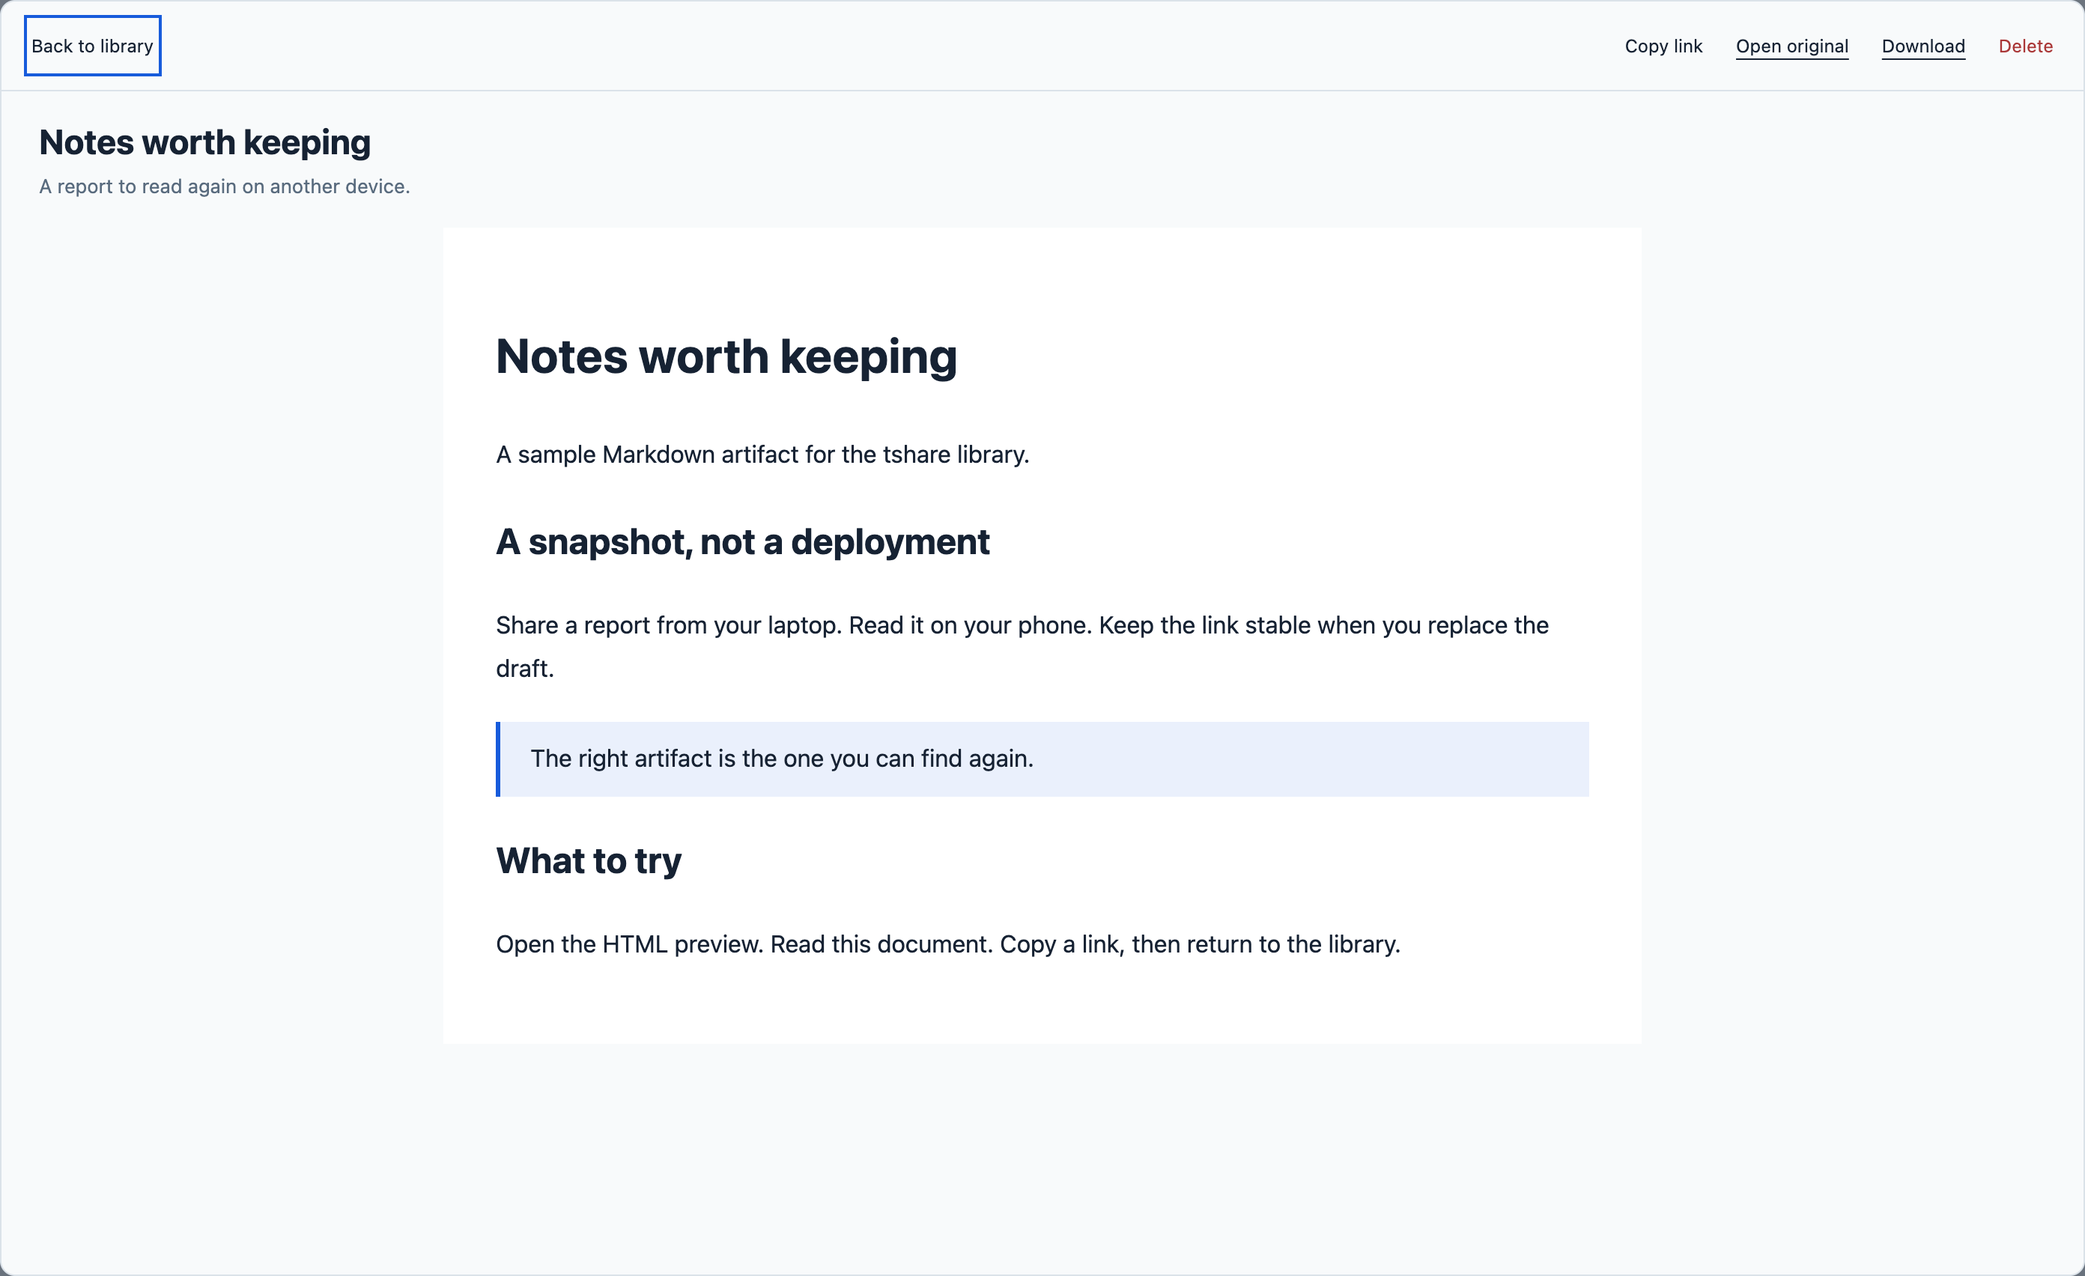
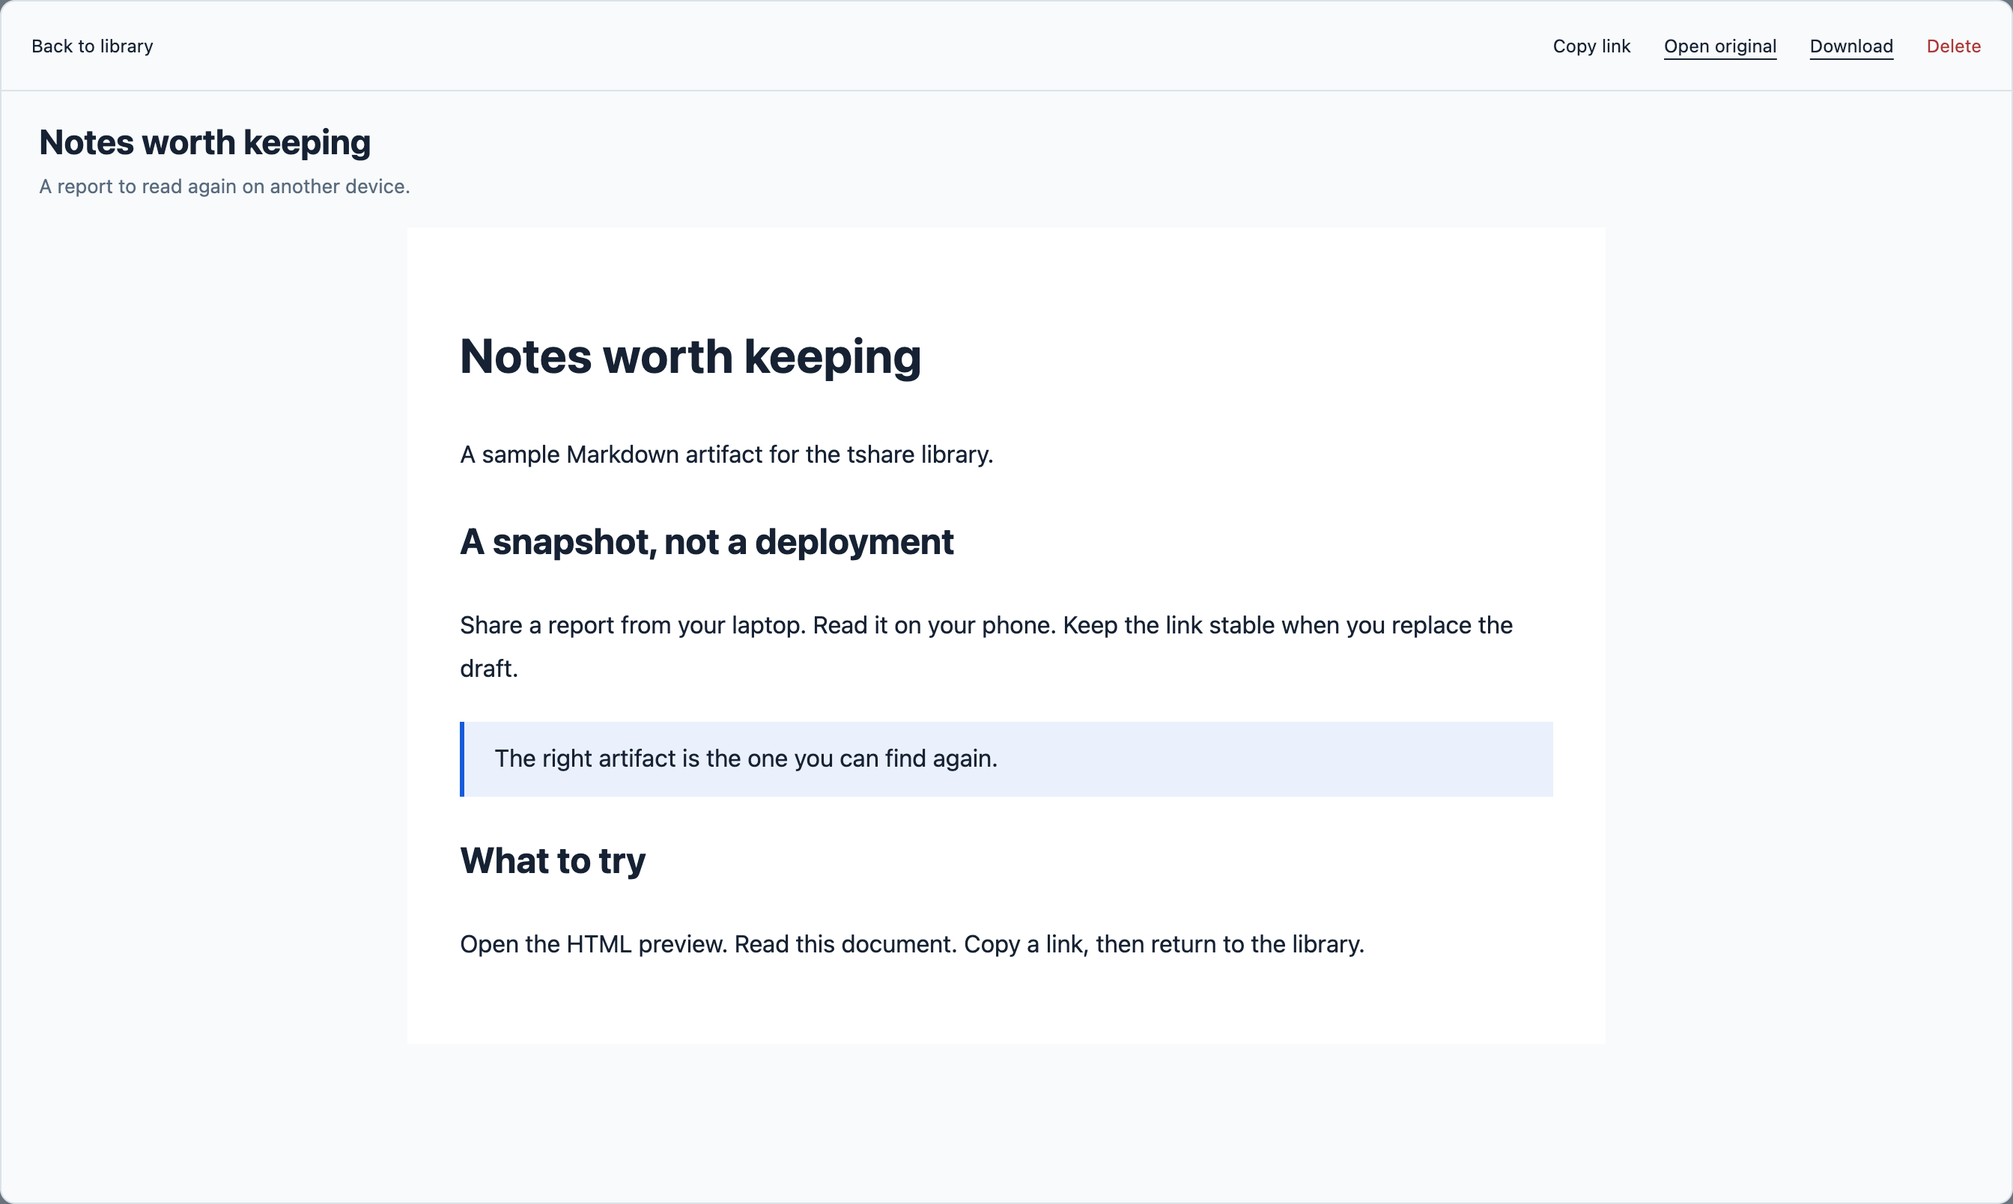
fix(website): mirror the phone-sized library reader capture
Same authored source as site commit 3c6115e.

diff --git a/website/public/landing.css b/website/public/landing.css
@@ -15,9 +15,9 @@ html{scroll-behavior:smooth}html,body{overflow-x:clip}body{font-synthesis:none}.
 
 [data-slot][data-kind="product"]::before{display:none}
 
-.section{padding-block:var(--section-gap-s)}.section-head{display:flex;justify-content:space-between;align-items:end;gap:var(--gap-columns);margin-bottom:var(--space-2xl)}.section-head h2{max-width:18ch}.section-head>p{color:var(--color-ink-2);max-width:45ch;line-height:1.7}.mode-section{background:var(--color-paper-2);border-block:1px solid var(--color-rule)}.mode-rows{border-top:1px solid var(--color-rule-2)}.mode-rows article{display:grid;grid-template-columns:minmax(0,3fr) minmax(0,6fr) minmax(0,2fr);gap:var(--gap-columns);align-items:center;padding-block:var(--space-xl);border-bottom:1px solid var(--color-rule-2)}.mode-rows h3{font-size:32px}.mode-rows p{font-size:20px;max-width:45ch;line-height:1.5}.mode-rows span{font-size:14px;color:var(--color-muted);justify-self:end}.reader-capture{margin:0;aspect-ratio:1.7;border-radius:var(--radius-card);outline:1px solid var(--color-rule-2);outline-offset:-1px}.reader-capture>img{object-position:top;filter:none;mix-blend-mode:normal}.caption{color:var(--color-muted);font-size:14px;margin-top:var(--space-md)}.cli-section{background:var(--color-graphite);color:var(--color-graphite-ink)}.cli-section h2,.cli-section h3{color:var(--color-graphite-ink)}.cli-section .section-head>p{color:var(--color-graphite-muted)}.command-grid{display:grid;grid-template-columns:repeat(2,minmax(0,1fr));gap:var(--gap-columns);border-top:1px solid var(--color-graphite-muted);padding-top:var(--space-xl)}.command-grid>div{min-width:0}.command-grid h3{font-size:24px}.command-grid pre{font:400 18px/1.9 var(--font-outlier);white-space:pre-wrap;overflow-wrap:anywhere;margin-top:var(--space-xl);margin-bottom:var(--space-xl);padding:0}.cli-doc-link{color:var(--color-graphite-ink);font-size:16px}.plans-grid{display:grid;grid-template-columns:repeat(3,minmax(0,1fr));gap:var(--gap-columns);border-top:1px solid var(--color-rule-2)}.plan{padding-block:var(--space-xl);border-bottom:1px solid var(--color-rule-2);display:flex;flex-direction:column;min-width:0}.plan h3{font-size:24px}.price{font-family:var(--font-display);font-size:64px;font-weight:600;letter-spacing:-.04em;line-height:1.2;margin-block:var(--space-lg);font-variant-numeric:tabular-nums}.price span{font-family:var(--font-body);font-size:14px;font-weight:400;letter-spacing:0;color:var(--color-muted);margin-left:var(--space-xs)}.plan>p:not(.price){font-size:16px;color:var(--color-ink-2)}.plan ul{list-style:none;margin:var(--space-xl) 0;padding:0;color:var(--color-ink-2);font-size:16px;line-height:2}.plan-action{margin-top:auto;font-size:16px;color:var(--color-accent);align-self:start}.waitlist-section{background:var(--color-paper-2);border-top:1px solid var(--color-rule)}.waitlist-grid{display:grid;grid-template-columns:minmax(0,1fr) minmax(0,1fr);gap:var(--gap-columns)}.waitlist-copy h2{font-size:clamp(44px,5vw,72px);max-width:12ch}.waitlist-copy>p{color:var(--color-ink-2);margin-top:var(--space-xl);max-width:45ch;line-height:1.8}.small-note{font-size:13px!important;color:var(--color-muted)!important;line-height:1.6!important}.field{margin-bottom:var(--space-lg)}.field label{display:block;font-size:14px;margin-bottom:var(--space-xs);color:var(--color-ink-2)}.field label span{color:var(--color-muted)}.field input,.field select,.field textarea{width:100%;border:1px solid var(--color-rule-2);border-radius:var(--radius-input);padding-inline:var(--space-md);background:var(--color-paper);color:var(--color-ink);font:400 16px var(--font-body)}.field input,.field select{height:48px}.field textarea{padding-block:var(--space-sm);min-height:88px;resize:vertical;line-height:1.5}.field input:hover,.field textarea:hover,.field select:hover{border-color:var(--color-muted)}.field input[aria-invalid=true]{border-color:var(--color-error)}.consent{display:flex;align-items:start;gap:var(--space-sm);font-size:13px;line-height:1.6;color:var(--color-ink-2);margin-bottom:var(--space-lg)}.consent input{width:18px;height:18px;margin:var(--space-3xs) 0 0;accent-color:var(--color-accent);flex-shrink:0}.trap{position:absolute;clip-path:inset(50%);width:1px;height:1px;overflow:clip}.form-status{min-height:1.6em;margin-top:var(--space-md);font-size:14px;color:var(--color-ink-2)}.form-status.error{color:var(--color-error)}.form-status.success{color:var(--color-success)}#signup-result{margin-top:var(--space-md);font-size:14px;line-height:1.8}#signup-result p{font-size:14px}#removal-link{overflow-wrap:anywhere;color:var(--color-accent)}.site-footer{padding-block:var(--space-2xl);background:var(--color-paper)}.site-footer>.container>p{font-family:var(--font-display);font-size:clamp(32px,4vw,56px);font-weight:600;letter-spacing:-.03em}.footer-row{display:flex;align-items:center;justify-content:space-between;margin-top:var(--space-2xl);gap:var(--space-lg)}.footer-row>div{display:flex;gap:var(--space-lg);font-size:14px}.legal{max-width:850px;padding-block:var(--space-2xl)}.legal h1{font-size:56px;max-width:20ch}.legal h2{font-size:28px;margin-top:var(--space-xl);margin-bottom:var(--space-md)}.legal p,.legal li{font-size:16px;line-height:1.8;color:var(--color-ink-2)}.legal p{margin-block:var(--space-md)}.legal .key{margin-top:var(--space-lg)}
+.section{padding-block:var(--section-gap-s)}.section-head{display:flex;justify-content:space-between;align-items:end;gap:var(--gap-columns);margin-bottom:var(--space-2xl)}.section-head h2{max-width:18ch}.section-head>p{color:var(--color-ink-2);max-width:45ch;line-height:1.7}.mode-section{background:var(--color-paper-2);border-block:1px solid var(--color-rule)}.mode-rows{border-top:1px solid var(--color-rule-2)}.mode-rows article{display:grid;grid-template-columns:minmax(0,3fr) minmax(0,6fr) minmax(0,2fr);gap:var(--gap-columns);align-items:center;padding-block:var(--space-xl);border-bottom:1px solid var(--color-rule-2)}.mode-rows h3{font-size:32px}.mode-rows p{font-size:20px;max-width:45ch;line-height:1.5}.mode-rows span{font-size:14px;color:var(--color-muted);justify-self:end}.reader-capture{margin:0;aspect-ratio:1.7;border-radius:var(--radius-card);outline:1px solid var(--color-rule-2);outline-offset:-1px}.reader-capture>picture,.reader-capture img{display:block;width:100%;height:100%}.reader-capture img{object-fit:cover;object-position:top;filter:none;mix-blend-mode:normal}.caption{color:var(--color-muted);font-size:14px;margin-top:var(--space-md)}.cli-section{background:var(--color-graphite);color:var(--color-graphite-ink)}.cli-section h2,.cli-section h3{color:var(--color-graphite-ink)}.cli-section .section-head>p{color:var(--color-graphite-muted)}.command-grid{display:grid;grid-template-columns:repeat(2,minmax(0,1fr));gap:var(--gap-columns);border-top:1px solid var(--color-graphite-muted);padding-top:var(--space-xl)}.command-grid>div{min-width:0}.command-grid h3{font-size:24px}.command-grid pre{font:400 18px/1.9 var(--font-outlier);white-space:pre-wrap;overflow-wrap:anywhere;margin-top:var(--space-xl);margin-bottom:var(--space-xl);padding:0}.cli-doc-link{color:var(--color-graphite-ink);font-size:16px}.plans-grid{display:grid;grid-template-columns:repeat(3,minmax(0,1fr));gap:var(--gap-columns);border-top:1px solid var(--color-rule-2)}.plan{padding-block:var(--space-xl);border-bottom:1px solid var(--color-rule-2);display:flex;flex-direction:column;min-width:0}.plan h3{font-size:24px}.price{font-family:var(--font-display);font-size:64px;font-weight:600;letter-spacing:-.04em;line-height:1.2;margin-block:var(--space-lg);font-variant-numeric:tabular-nums}.price span{font-family:var(--font-body);font-size:14px;font-weight:400;letter-spacing:0;color:var(--color-muted);margin-left:var(--space-xs)}.plan>p:not(.price){font-size:16px;color:var(--color-ink-2)}.plan ul{list-style:none;margin:var(--space-xl) 0;padding:0;color:var(--color-ink-2);font-size:16px;line-height:2}.plan-action{margin-top:auto;font-size:16px;color:var(--color-accent);align-self:start}.waitlist-section{background:var(--color-paper-2);border-top:1px solid var(--color-rule)}.waitlist-grid{display:grid;grid-template-columns:minmax(0,1fr) minmax(0,1fr);gap:var(--gap-columns)}.waitlist-copy h2{font-size:clamp(44px,5vw,72px);max-width:12ch}.waitlist-copy>p{color:var(--color-ink-2);margin-top:var(--space-xl);max-width:45ch;line-height:1.8}.small-note{font-size:13px!important;color:var(--color-muted)!important;line-height:1.6!important}.field{margin-bottom:var(--space-lg)}.field label{display:block;font-size:14px;margin-bottom:var(--space-xs);color:var(--color-ink-2)}.field label span{color:var(--color-muted)}.field input,.field select,.field textarea{width:100%;border:1px solid var(--color-rule-2);border-radius:var(--radius-input);padding-inline:var(--space-md);background:var(--color-paper);color:var(--color-ink);font:400 16px var(--font-body)}.field input,.field select{height:48px}.field textarea{padding-block:var(--space-sm);min-height:88px;resize:vertical;line-height:1.5}.field input:hover,.field textarea:hover,.field select:hover{border-color:var(--color-muted)}.field input[aria-invalid=true]{border-color:var(--color-error)}.consent{display:flex;align-items:start;gap:var(--space-sm);font-size:13px;line-height:1.6;color:var(--color-ink-2);margin-bottom:var(--space-lg)}.consent input{width:18px;height:18px;margin:var(--space-3xs) 0 0;accent-color:var(--color-accent);flex-shrink:0}.trap{position:absolute;clip-path:inset(50%);width:1px;height:1px;overflow:clip}.form-status{min-height:1.6em;margin-top:var(--space-md);font-size:14px;color:var(--color-ink-2)}.form-status.error{color:var(--color-error)}.form-status.success{color:var(--color-success)}#signup-result{margin-top:var(--space-md);font-size:14px;line-height:1.8}#signup-result p{font-size:14px}#removal-link{overflow-wrap:anywhere;color:var(--color-accent)}.site-footer{padding-block:var(--space-2xl);background:var(--color-paper)}.site-footer>.container>p{font-family:var(--font-display);font-size:clamp(32px,4vw,56px);font-weight:600;letter-spacing:-.03em}.footer-row{display:flex;align-items:center;justify-content:space-between;margin-top:var(--space-2xl);gap:var(--space-lg)}.footer-row>div{display:flex;gap:var(--space-lg);font-size:14px}.legal{max-width:850px;padding-block:var(--space-2xl)}.legal h1{font-size:56px;max-width:20ch}.legal h2{font-size:28px;margin-top:var(--space-xl);margin-bottom:var(--space-md)}.legal p,.legal li{font-size:16px;line-height:1.8;color:var(--color-ink-2)}.legal p{margin-block:var(--space-md)}.legal .key{margin-top:var(--space-lg)}
 @media(max-width:60rem){.section-head{display:block;margin-bottom:var(--space-xl)}.section-head>p{margin-top:var(--space-lg)}.mode-rows article{grid-template-columns:minmax(0,1fr) minmax(0,2fr)}.mode-rows span{grid-column:2;justify-self:start}.mode-rows h3{font-size:26px}.mode-rows p{font-size:18px}.waitlist-copy h2{font-size:52px}.command-grid pre{font-size:15px}.reader-capture{aspect-ratio:1.3}.plans-grid{gap:var(--space-lg)}.price{font-size:54px}.plan ul,.plan-action,.plan>p:not(.price){font-size:14px}}
-@media(max-width:40rem){.section-head h2{font-size:38px}.section-head>p{font-size:15px}.mode-rows article{grid-template-columns:minmax(0,1fr);gap:var(--space-md);padding-block:var(--space-lg)}.mode-rows span{grid-column:auto;font-size:13px}.mode-rows p{font-size:17px}.mode-rows h3{font-size:28px}.reader-capture{aspect-ratio:.95}.reader-capture>img{object-position:40% top}.caption{font-size:12px}.command-grid{grid-template-columns:minmax(0,1fr);gap:var(--space-xl)}.command-grid pre{font-size:14px;margin-block:var(--space-lg)}.command-grid h3{font-size:24px}.plans-grid{grid-template-columns:minmax(0,1fr);gap:0}.plan{padding-block:var(--space-xl)}.plan h3{font-size:28px}.price{font-size:64px;margin-block:var(--space-md)}.plan ul{margin-block:var(--space-lg)}.plan ul,.plan-action,.plan>p:not(.price){font-size:16px}.waitlist-grid{grid-template-columns:minmax(0,1fr);gap:var(--space-xl)}.waitlist-copy h2{font-size:52px}.waitlist-copy>p{margin-top:var(--space-lg)}.footer-row{align-items:start;gap:var(--space-xl)}.footer-row>div{flex-direction:column;gap:var(--space-md);font-size:13px}.site-footer{padding-block:var(--space-xl)}.legal h1{font-size:42px}.legal{padding-block:var(--space-xl)}}
+@media(max-width:40rem){.section-head h2{font-size:38px}.section-head>p{font-size:15px}.mode-rows article{grid-template-columns:minmax(0,1fr);gap:var(--space-md);padding-block:var(--space-lg)}.mode-rows span{grid-column:auto;font-size:13px}.mode-rows p{font-size:17px}.mode-rows h3{font-size:28px}.reader-capture{aspect-ratio:780/1480;max-width:390px}.caption{font-size:12px}.command-grid{grid-template-columns:minmax(0,1fr);gap:var(--space-xl)}.command-grid pre{font-size:14px;margin-block:var(--space-lg)}.command-grid h3{font-size:24px}.plans-grid{grid-template-columns:minmax(0,1fr);gap:0}.plan{padding-block:var(--space-xl)}.plan h3{font-size:28px}.price{font-size:64px;margin-block:var(--space-md)}.plan ul{margin-block:var(--space-lg)}.plan ul,.plan-action,.plan>p:not(.price){font-size:16px}.waitlist-grid{grid-template-columns:minmax(0,1fr);gap:var(--space-xl)}.waitlist-copy h2{font-size:52px}.waitlist-copy>p{margin-top:var(--space-lg)}.footer-row{align-items:start;gap:var(--space-xl)}.footer-row>div{flex-direction:column;gap:var(--space-md);font-size:13px}.site-footer{padding-block:var(--space-xl)}.legal h1{font-size:42px}.legal{padding-block:var(--space-xl)}}
 
 .field input,.field select,.field textarea{border-color:var(--color-muted)}.consent a{white-space:nowrap}
 

diff --git a/website/public/landing.html b/website/public/landing.html
@@ -2,7 +2,7 @@
 <html lang="en"><head><meta charset="utf-8"><meta name="viewport" content="width=device-width,initial-scale=1"><title>tshare: your work, within reach</title><meta name="description" content="Share artifacts across your own devices with Tailscale. Join the waitlist for managed sharing with other people."><meta property="og:title" content="tshare: your work, within reach"><meta property="og:description" content="Self-host for your devices. Join the waitlist to share with everyone else."><meta property="og:type" content="website"><link rel="icon" href="/favicon.svg"><link rel="stylesheet" href="/landing.css"></head><body>
 <nav class="nav-slab"><div class="container nav-inner"><a class="wordmark" href="/" aria-label="tshare home">tshare<span aria-hidden="true">_</span></a><div class="nav-links"><a href="#library">The library</a><a href="#plans">Plans</a><a href="https://github.com/identity16/tshare">GitHub</a></div></div></nav>
 <main><section class="stage-hero container" id="top"><canvas class="route-field" aria-hidden="true"></canvas><div class="stage-copy"><h1>From your machine<br>to your phone.</h1><p class="lead">Private links for your HTML and reports, served by a host you run.</p><div class="stage-actions"><a class="key primary" href="#waitlist">Join Cloud waitlist</a><a class="key" href="https://github.com/identity16/tshare#quick-start">Self-host free</a></div><p class="stage-note"><strong>Cloud, in planning:</strong> links for guests who don’t use Tailscale.<span> Self-hosting is free and MIT licensed.</span></p><div class="terminal"><p class="stage-label">On your computer</p><p class="terminal-note"># host: tshare serve, behind tailscale serve<br># TSHARE_BASE_URL: that tailscale origin</p><div class="source-command"><code>$ tshare ./preview.html</code><button class="copy-command" data-copy="tshare ./preview.html">Copy</button></div><samp><span>https://<mark>your-device</mark>.your-tailnet.ts.net</span><wbr>/share/preview/</samp></div></div><figure class="route-stage" aria-label="A file on your computer opens on your phone over a private Tailscale connection"><figcaption class="stage-route"><strong>Tailnet-only link</strong> to your phone on Tailscale, served by your host.</figcaption><div class="stage-destination"><figure class="stage-phone" data-slot="phone-result" data-kind="product" data-alt="Actual HTML preview opened from the tshare host" data-capture-width="320" data-heading-y="87"><img src="/screens/preview-phone-full.png" width="640" height="1136" alt="The same preview.html opened on a phone through tshare"></figure><a class="stage-sample" href="/examples/preview.html" target="_blank" rel="noopener">Open the sample HTML</a></div></figure></section><section class="mode-section section" id="network"><div class="container"><div class="section-head"><h2>Private first.<br>A wider circle, later.</h2><p>Your own devices today.<br>Other people when you need them.</p></div><div class="mode-rows"><article><h3>Self-hosted</h3><p>One owner. Your server. Tailscale connects your devices and networks.</p><span>Available now</span></article><article><h3>Web library</h3><p>Search and open what you shared. Enable it with a single flag.</p><span>Optional</span></article><article><h3>Cloud</h3><p>Managed hosting for sharing with guests outside your tailnet.</p><span>In planning</span></article></div></div></section>
-<section class="library-section container section" id="library"><div class="section-head"><h2>Find it.<br>Open it. Keep going.</h2><p>Read Markdown, run HTML, preview images and PDFs.<br>The library is optional.</p></div><figure class="reader-capture" data-slot="document-reader" data-kind="product" data-alt="The actual Markdown reader inside the self-hosted tshare web library"><img src="/screens/reader-home-desktop-part.png" width="2784" height="1704" alt="Markdown reading view in the running tshare app" loading="lazy"></figure><p class="caption">Actual self-hosted app, shown with sample artifacts.</p></section>
+<section class="library-section container section" id="library"><div class="section-head"><h2>Find it.<br>Open it. Keep going.</h2><p>Read Markdown, run HTML, preview images and PDFs.<br>The library is optional.</p></div><figure class="reader-capture" data-slot="document-reader" data-kind="product" data-alt="The actual Markdown reader inside the self-hosted tshare web library"><picture><source media="(max-width: 40rem)" srcset="/screens/reader-home-phone.png" width="780" height="1688"><img src="/screens/reader-home-desktop-part.png" width="2688" height="1608" alt="Markdown reading view in the running tshare app" loading="lazy"></picture></figure><p class="caption">Actual self-hosted app, shown with sample artifacts.</p></section>
 <section class="cli-section section" id="install"><div class="container"><div class="section-head"><h2>The UI is a flag.</h2><p>Node.js 24.16+. No runtime packages.<br>Docker Compose included.</p></div><div class="command-grid"><div><h3>Just the links</h3><pre><code>tshare ./report.md report
 
 tshare serve</code></pre></div><div><h3>Add the library</h3><pre><code>tshare serve --ui
